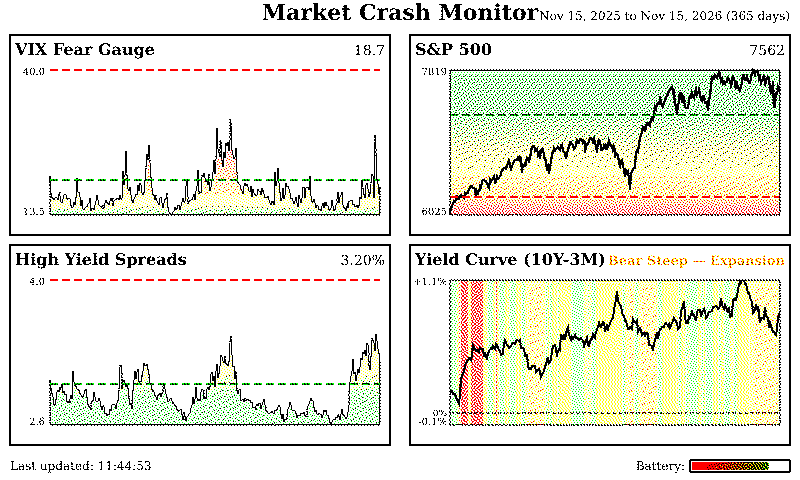
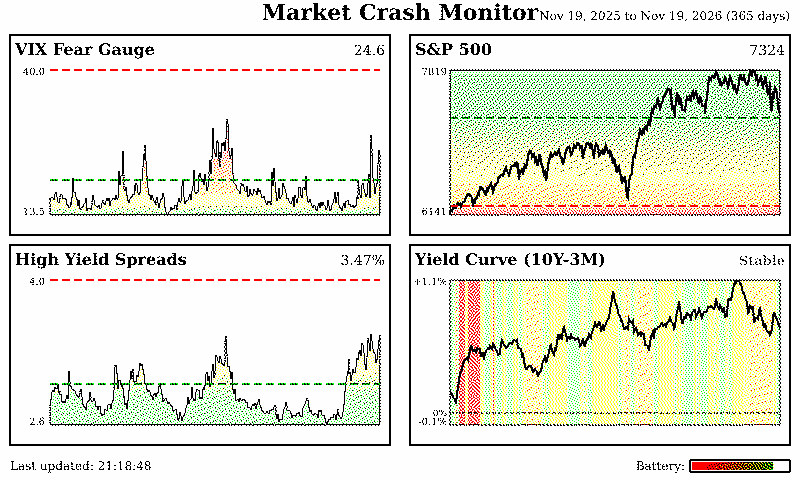
Regenerate README screenshots; add overview and tri-colour weather
All images now come from the /png endpoints, so they show the dithered
output the panels actually display. Weather screens use Singapore, which
currently has rain and heat to show off the colour coding.

diff --git a/README.md b/README.md
@@ -12,6 +12,12 @@ The backend is currently written in Rust. The frontend currently uses the Arduin
 ### Weather Display
 ![Weather Display](assets/weather.png)
 
+### Weather Overview
+![Weather Overview](assets/weather-overview.png)
+
+### Tri-colour Weather (2.9" white/black/red, shown at 2x)
+![Tri-colour Weather](assets/weather-mini.png)
+
 ### Stock Charts
 ![Stock Charts](assets/stocks.png)
 
